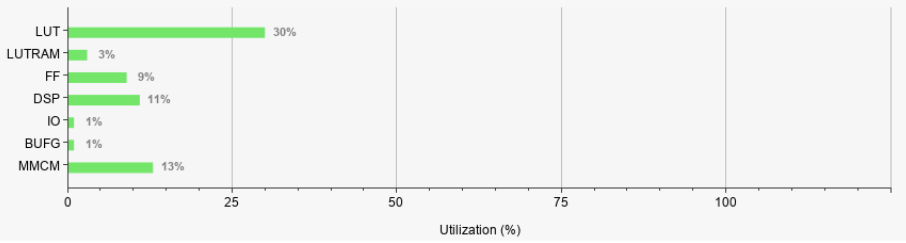
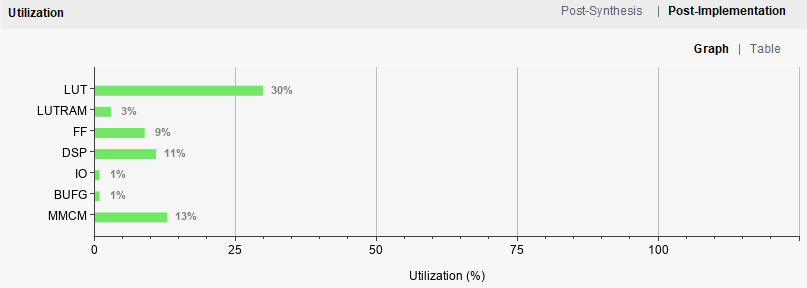
update

diff --git a/README.md b/README.md
@@ -317,10 +317,16 @@ Timing_max| Area
 --|--|--
 |<div align = "middle">65538 (30%)| <div align = "middle"> 0.576 ns|<div align = "middle"> 89 clk|
 
-<img src="/History/img/img79.png" width=500> |<div align = "left"><div align = "left">- LUT 30% 사용 -> Combinational Logic ↑<br><br>- FF, DSP 약 10% -> 적정 Pipelining, Multiplier
+<img src="/History/img/img79.png" width=400> |<img src="/History/img/img84.png" width=400> |
 --|--
-<img src="/History/img/img80.png" width=500> |- **Setup Time & Hold Time Slack MET** |
 
+<img src="/History/img/img80.png" width=400> |<img src="/History/img/img82.png" width=200>|<img src="/History/img/img83.png" width=200>|
+--|--|--
+
+
+- LUT 30% 사용 -> Combinational Logic ↑
+- FF, DSP 약 10% -> 적정 Pipelining, Multiplier
+- Setup Time & Hold Time Slack MET 
 
 ## 진행 결과
 
